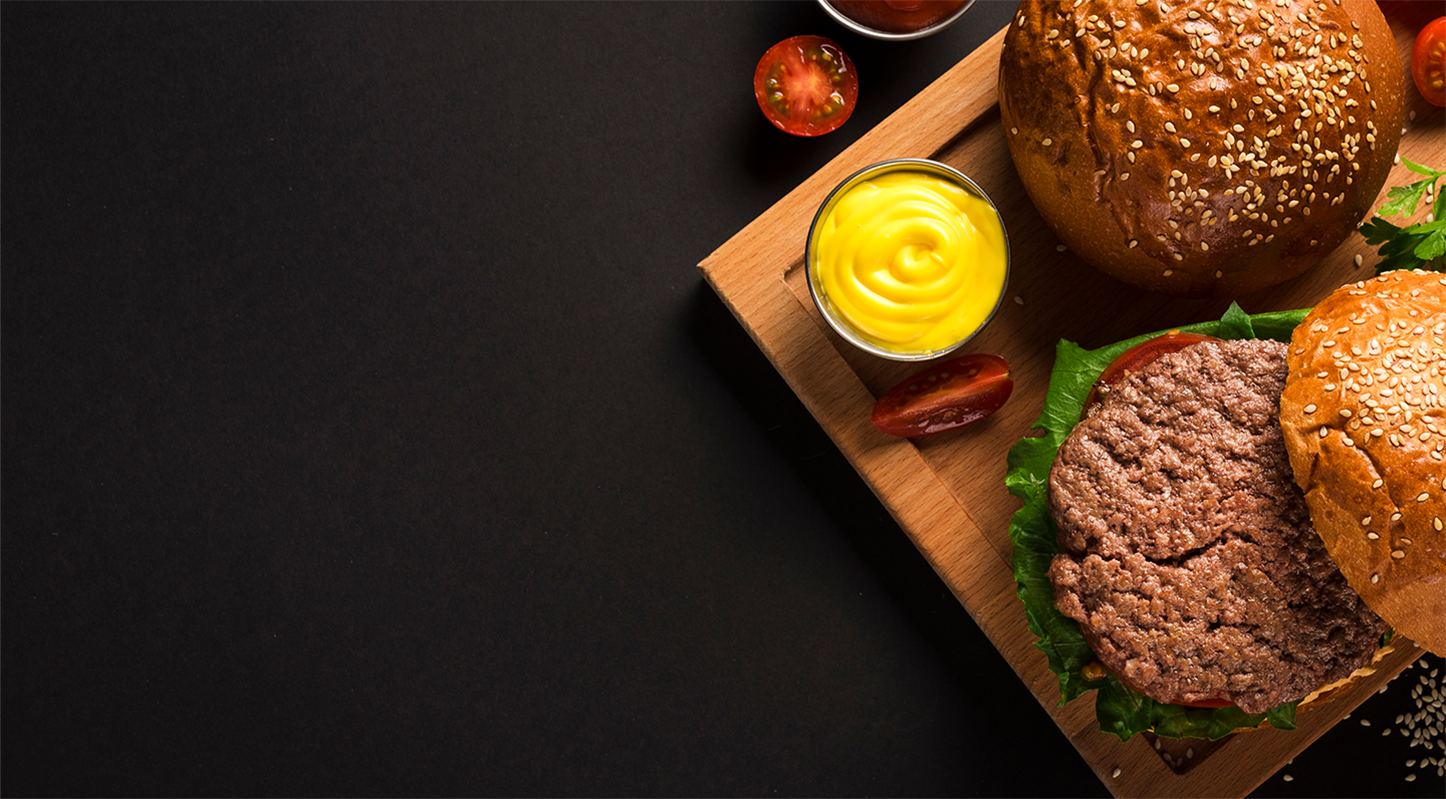
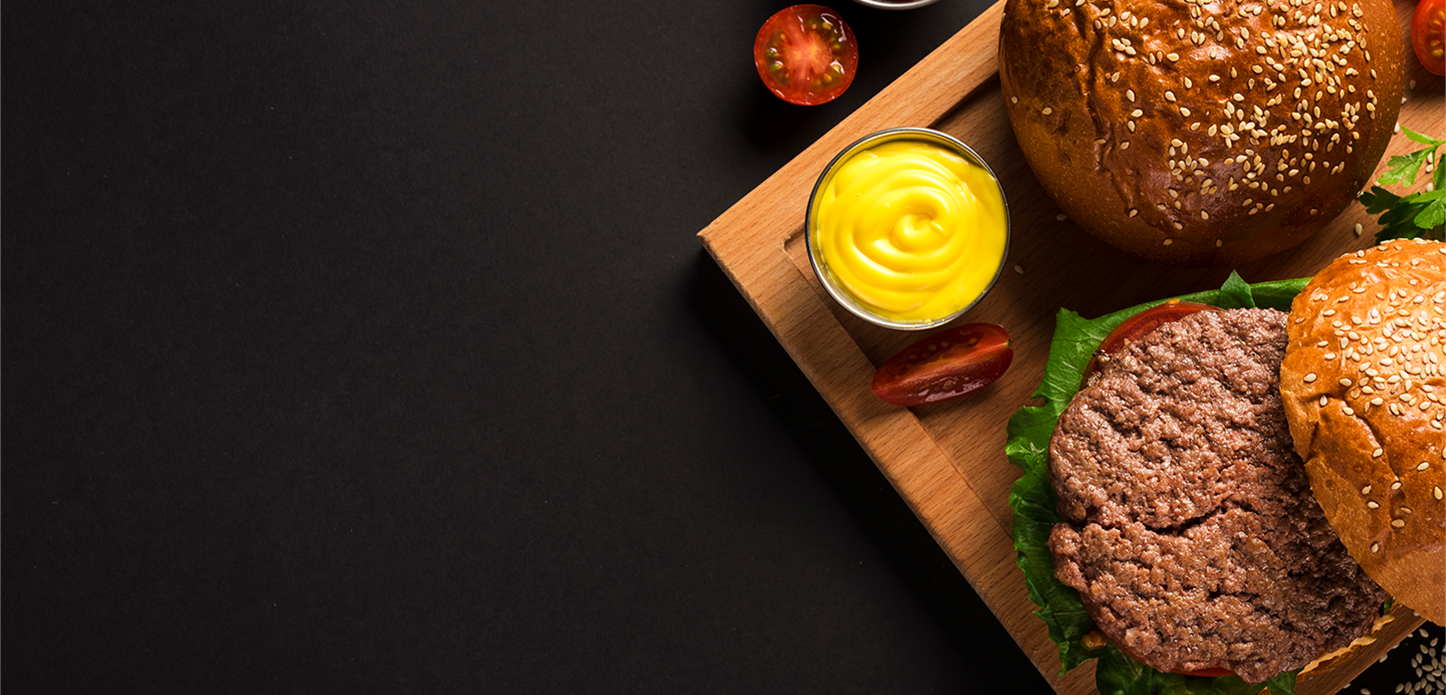
first commit

Changed region(s): [[0.4668, 0.0, 1.0, 1.0]]

diff --git a/project web/barger/css/index.css b/project web/barger/css/index.css
@@ -1,7 +1,7 @@
 *{ margin: 0;padding: 0;box-sizing: border-box; }
  /* navbar css */
 .navbar{ background-color: #f6eedf00; width: 100%;display: flex;background-image: linear-gradient(0deg, rgba(0,0,0,0) 0%, rgba(0,0,0,0.9999999999999999) 85%, rgba(0,0,0,0.9999999999999999) 100%); position: relative;z-index: 4;overflow: initial;}
-.bg-img{ position: absolute;left: 0;top: 0;   z-index: -2;width: 100%; object-fit: cover;}
+.bg-img{ position: absolute;left: 0;top: 0;   z-index: -2;width: 100%; object-fit: cover;height: 1000px;}
 .nav-img{ margin-left: 7%; padding: 10px;padding-top: 40px;}
 .li-optin { font-size: 30px;line-height: 97px;color: #ffffff;font-weight: 400;font-family: "Archivo";list-style-type: none;}
 .nav-text{ display: flex;margin-left: 25%;justify-content: center;align-items: center;gap: 30px; }
@@ -14,3 +14,82 @@
 
 /* order button */
 .order-btn{ border-radius: 32px;background-color: #f64b3c;padding: 10px 20px 10px 20px; font-size: 20px;color: #ffffff;font-weight: 700;font-family: "Archivo";text-align: center;font-family: "Nunito";margin-top: 5%;}
+
+
+.chef{ font-size: 64px;color: #f64b3c;font-weight: 700;font-family: "Archivo";text-align: center; }
+.oner-s{ display: flex;gap: 30px;margin: auto;margin-top: 5%;flex-wrap: wrap;width: 100%;position: relative;}
+.contener{ width: 100%;background-color: #f6eedf;margin-top: 5%;display: grid;justify-content: center;align-items: center;text-align: center;height: auto;padding-top: 20px;padding-bottom: 10%; }
+.lorem{ font-size: 25px;color: #f64b3c;font-weight: 400;font-family: "Montserrat";text-align: center;width: 60%;margin: auto;padding-top: 30px;}
+.intro-img{ width: 200px; }
+.oner-position{ text-transform: uppercase;color: #f64b3c;font-weight: 700;font-family: "Archivo";text-align: center;padding-top: 4%; }
+.oner-name{ font-size: 25px;color: #f64b3c;font-weight: 600;font-family: "Nunito";text-align: center;padding-top: 4%; }
+.oner-ditels{ width: 300px; margin: auto;z-index: 3;}
+.bg-img-oner{ position: absolute;left: 0;top: -75%;   z-index: 1;width: 100%; object-fit: cover; }
+
+
+
+
+
+.best-s{ width: 100%;background-color: #f64b3c;height: auto;display: flex;flex-wrap: wrap;  justify-content: center;align-items: center;margin: auto;padding:10% 10%; }
+.img-best{ width: 400px;margin: auto; }
+.best-text{ font-size: 75px; color: #ffffff; font-weight: 700; }
+.best-ditels{ font-size: 30px;color: #ffffff;font-weight: 400; }
+.best-div{ width: 500px;margin: auto; }
+.best-btn{ border-radius: 32px;background-color: #ffffff;padding: 10px 20px 10px 20px; font-size: 20px;color: #f64b3c;font-weight: 700;font-family: "Archivo";text-align: center;font-family: "Nunito";margin-top: 5%; border: none;}
+
+
+
+
+
+.big-s{ width: 100%;height: auto;display: flex;flex-wrap: wrap; background-color: #bbb7ad; justify-content: center;align-items: center;margin: auto;padding:10% 10%; position: relative;background: url(../img/2\ bg\ img.png);object-fit: contain;background-repeat: no-repeat;}
+.img-big{ width: 400px;margin: auto;padding-top: 20px; }
+.big-text{ font-size: 75px; color: #f64b3c; font-weight: 700; }
+.big-ditels{ font-size: 30px;color: #f64b3c;font-weight: 400; }
+.big-div{ width: 500px;margin: auto; }
+.big-btn{ border-radius: 32px;background-color: #f64b3c;padding: 10px 20px 10px 20px; font-size: 20px;color: #ffffff;font-weight: 700;font-family: "Archivo";text-align: center;font-family: "Nunito";margin-top: 5%; border: none;padding-top: 10px;}
+.big-bgimg{position: absolute; z-index: 1;width: 80%; }
+
+
+
+
+.Statistics-s{ background-color: #f64b3c;width: 100%;height: auto; padding-top: 5%;}
+.Statistics{ font-size: 64px;color: #ffffff;font-weight: 700;font-family: "Archivo";text-align: center;padding-top: 30px; }
+.Statistics-lorem{ font-size: 25px;color: #ffffff;font-weight: 400;font-family: "Montserrat";text-align: center;width: 60%;margin: auto;padding-top: 20px;}
+.cr-d{ width: 400px; height: 400px; border: 4px solid #ffffff;border-radius: 50%; margin: auto;text-align: center;padding-top: 100px;}
+.cr{ display: flex;flex-wrap: wrap;margin: auto;gap: 20PX;padding-top: 20px; padding-bottom: 5%; }
+.cr-count{ font-size: 102px;color: #ffffff;font-weight: 700; }
+.cr-text{ font-size: 33px;text-transform: uppercase;color: #ffffff;font-weight: 700; }
+
+.packeg{ width: 300px;background-color: #f6eedf;text-align: center;padding: 10px;margin: auto;margin-top: 60px;border-radius: 10px; }
+.packeg-titel{ font-size: 33px; text-transform: uppercase; color: #f64b3c; font-weight: 700; padding-bottom: 20px;}
+.packeg-p{ font-size: 33px;color: #f64b3c;font-weight: 700;padding-top: 20px; }
+.packeg-l{ font-size: 10px;color: #f64b3c;font-weight: 400;text-align: center;padding-top: 20px; }
+.packeg-s{ display: flex;margin: auto;justify-content: center;flex-wrap: wrap;gap: 20px; }
+.popular{ background: url(../img/2\ bg\ img.png);object-fit: cover;background-repeat: no-repeat; padding-bottom: 10%;background-size: contain;}
+.barry{ width: 100%;  display: grid;justify-content: center;align-items: center; background: url(../img/Image.png);background-repeat: no-repeat; padding-bottom: 10%;background-size: 100%;background-size: cover;}
+
+.barry-text{ font-size: 36px;color: #ffffff;font-weight: 400;font-family: "Archivo";text-align: center;padding: 10%; }
+.barry-titel{ font-size: 50px;color: #ffffff;font-weight: 700;font-family: "Calistoga";text-align: center;padding-top: 10px; }
+.barry-div{ width: 70%;margin: auto; }
+
+
+.miss{ width: 100%;background: url(../img/2\ bg\ img.png); object-fit: cover;background-repeat: no-repeat;background-size: 100%;padding-top: 20%;padding-bottom: 20%; }
+.miss-title{ font-size: 75px;color: #f64b3c;font-weight: 700;font-family: "Archivo";text-align: center; }
+.miss-text{ font-size: 30px;
+    color: #f64b3c;
+    font-weight: 400;
+    font-family: "Nunito";
+  
+    text-align: center; 
+}
+.miss-a{ width: 50%;margin: auto; }    
+.miss-btn{ border-radius: 0px 20px 20px 0px;background-color: #f64b3c;margin: auto; padding: 10px 20px 10px 20px; font-size: 20px;color: #ffffff;font-weight: 700;font-family: "Archivo";text-align: center;font-family: "Nunito";margin-top: 5%;margin-left: -9%; border: none;padding-top: 10px; }
+.miss-su{ margin: auto;text-align: center; }
+.miss-su>input{ width: 30%;height: 39px;border: none;background-color: #f6eedf;border-radius: 40px; }
+
+.foot-text{ width: 400px; margin-top: 10%;margin-bottom: 10%;margin-left: 10%;}
+.foot-ti{ font-size: 31px;color: #ffffff;font-weight: 700;padding-bottom: 30px; }
+.foot-di{ padding-bottom: 20px; }
+.footer{ background-color: #222222;color: #ffffff;display: flex;justify-content: space-evenly;align-items: center;flex-wrap: wrap;margin: auto;}
+.about{ width: 200px;margin: auto;padding-top: 20px; }
+li{ list-style-type: none;padding-top: 10px; }

diff --git a/project web/barger/html/index.html b/project web/barger/html/index.html
@@ -59,8 +59,185 @@
 </div>
 </section>
 
+<!-- our chef -->
+<section>
+
+
+    
+    <div class="contener">
+        <p class="chef">Our Chef</p>
+        <p class="lorem">Lorem ipsum dolor sit amet consectetur adipisicing elit. Animi provident quae, eos libero sunt perferendis qui exercitationem. Enim </p>
+        
+        <div class="oner-s">
+            
+            
+            
+            
+            <div class="oner-ditels">
+                <img src="../img/1 img.png" alt="" class="intro-img">
+                <p class="oner-name">AIDEN HUNTER</p>
+                <p class="oner-position">Founder</p>
+            </div>
+            <div class="oner-ditels">
+                <img src="../img/2 img.png" alt="" class="intro-img">
+                <p class="oner-name">AIDEN HUNTER</p>
+                <p class="oner-position">Founder</p>
+            </div>
+            <div class="oner-ditels">
+                <img src="../img/3 img.png" alt="" class="intro-img">
+                <p class="oner-name">AIDEN HUNTER</p>
+                <p class="oner-position">Founder</p>
+            </div>
+            <img src="../img/Design.png" alt="" class="bg-img-oner">
+
+    </div>
+</section>
+
+
+<section>
+    <div class="best-s">
+<img src="../img/burger img.png" alt="" class="img-best">
+<div class="best-div">
+    <h1 class="best-text">Best Burger</h1>
+    <p  class="best-ditels">Lorem ipsum dolor sit amet consectetur adipisicing elit. Esse illo et provident fugit doloremque vitae quo dolores a</p>
+    <button class="best-btn">ORDERD NOW</button>
+
+    </div>
+</section>
+
+
+<section>
+    <div class="big-s">
+        <!-- <img src="../img/2 bg img.png" alt="" class="big-bgimg"> -->
+        <div class="big-div">
+            <h1 class="big-text">Big Burger</h1>
+            <p  class="big-ditels">Lorem ipsum dolor sit amet consectetur adipisicing elit. Esse illo et provident fugit doloremque vitae quo dolores a</p>
+            <button class="big-btn">ORDERD NOW</button>
+            
+        </div>
+        <img src="../img/burger img.png" alt="" class="img-big">
+</section>
+
+
+
+<section>
+    <!-- Statistics section -->
+    <div class="Statistics-s">
+        <p class="Statistics">Statistics</p>
+        <p class="Statistics-lorem">Lorem ipsum dolor sit amet consectetur adipisicing elit. Animi provident quae, eos libero sunt perferendis qui exercitationem. </p>
+        <div class="cr">
+            <div class="cr-d">
+<h1 class="cr-count">7K</h1>
+<p class="cr-text">CUSTOMER</p>
+            </div>
+            <div class="cr-d">
+                <h1 class="cr-count">109</h1>
+                <p class="cr-text">OUTLETS</p>
+            </div>
+            <div class="cr-d">
+                <h1 class="cr-count">35</h1>
+<p class="cr-text">COUNTRY</p>
+            </div>
+        </div>
+    </div>
+</section>
+
+<section>
+    <div class="popular">
+<h1 class="chef">Popular Package</h1>
+
+<div class="packeg-s">
+    <div class="packeg">
+        <p class="packeg-titel">PACKAGE |</p>
+        <img src="../img/Icon.png" alt="">
+        <p class="packeg-p">$10.00</p>
+        <P class="packeg-l">Lorem, ipsum dolor sit amet consectetur adipisicing elit. Alias qui ipsum excepturi ex nihil</P>
+        <button class="big-btn">ORDER NOW</button>
+    </div>
+
+    <div class="packeg">
+        <p class="packeg-titel">PACKAGE |</p>
+        <img src="../img/Icon.png" alt="">
+        <p class="packeg-p">$10.00</p>
+        <P class="packeg-l">Lorem, ipsum dolor sit amet consectetur adipisicing elit. Alias qui ipsum excepturi ex nihil</P>
+        <button class="big-btn">ORDER NOW</button>
+    </div>
+
+
+    <div class="packeg">
+        <p class="packeg-titel">PACKAGE |</p>
+        <img src="../img/Icon.png" alt="">
+        <p class="packeg-p">$10.00</p>
+        <P class="packeg-l">Lorem, ipsum dolor sit amet consectetur adipisicing elit. Alias qui ipsum excepturi ex nihil</P>
+        <button class="big-btn">ORDER NOW</button>
+    </div>
+</div>
+    </div>
+</section>
+
+
+
+<section>
+    <div class="barry">
+        <div class="barry-div">
+<p class="barry-text">Lorem ipsum dolor sit, amet consectetur adipisicing elit. Aspernatur velit, nihil obcaecati corrupti illo provident officiis necessitatibus veritatis earum temporibus id! Voluptate dicta, eum exercitationem sed sapiente ullam quibusdam magnam.</p>
+<h1 class="barry-titel">Barry Henderson</h1>
+    </div>
+</div>
+</section>
+
+
+
+<section>
+    <div class="miss">
+<div class="miss-a">
+        <h1 class="miss-title">Don’t miss Our Update</h1>
+
+        <p class="miss-text">Lorem ipsum dolor sit amet, consectetur adipiscing elit. Vivamus lacinia odio vitae vestibulum vestibulum. </p>
+    </div>
+    <div class="miss-su">
+        <input type="text">
+        <button class="miss-btn">SUBSCRIBE</button>
+    </div>
+</div>
+</section>
+
 </main>
+ <!-- footer  -->
+<footer>
+    <div class="footer">
+        <div class="foot-text">
+<p class="foot-ti">Titel Here</p>
+<p class="foot-di">Lorem, ipsum dolor sit amet consectetur adipisicing elit. Quis, nisi voluptatibus repellendus vero exercitationem officiis enim accusantium reiciendis ullam veritatis? Dicta quo necessitatibus error porro</p>
+<img src="../img/icon-w.png" alt="">
+        </div>
 
+        <div class="about">
+<p class="foot-ti">About</p>
+<li>History</li>
+<li>Our Team</li>
+<li>Brand Gulidlines </li>
+<li>Term & Condition</li>
+<li>Privacy Policy</li>
+        </div>
+        <div class="about">
+        <p class="foot-ti">Services</p>
+        <li>How to Order</li>
+        <li>Our Product</li>
+        <li>Order Status</li>
+        <li>Promo</li>
+        <li>Payment Method</li>
+    </div>
+    <div class="about">
+        <p class="foot-ti">Other</p>
+       <li>Contact Us</li>
+       <li> Help</li>
+       <li>Privacy</li>
+    </div>
 
+       
+       
+    </div>
+</footer>
 </body>
 </html>

diff --git a/project web/barger/css/midiya.css b/project web/barger/css/midiya.css
@@ -1,4 +1,3 @@
-
 /* screen width 1213 to 947 */
 
 @media screen and (max-width: 1213px) {
@@ -6,15 +5,19 @@
     .cashback{font-size: 40px}
     .cashback-div{width: 500px;}
     .content-text{font-size: 29px;}
+    .bg-img{height: 200%;}
   }
 
-/* screen width  946 to 817*/
+/* screen width  947 to 817*/
 
-  @media screen and (max-width: 946px) {
+  @media screen and (max-width: 958px) {
     .li-optin {font-size: 15px;}
     .cashback{font-size: 30px;}
     .cashback-div{width: 400px;}
     .content-text{ font-size: 25px;}
+    .bg-img{height: 200%;}
+    .bg-img-oner{ top: 20px; }
+    
   }
 
 /* screen width    816 to 693 */
@@ -25,7 +28,9 @@
     .cashback{font-size: 30px;}
     .cashback-div{width: 400px;}
     .content-text{font-size: 25px;}
-    .bg-img{height: 100%;}
+    .bg-img{height: 200%;}
+    .bg-img-oner{ top: 20px; }
+
   }
 
 /* screen width 694 to 414 */
@@ -37,9 +42,23 @@
     .cashback-div{width: 400px;}
     .content-text{font-size: 25px;}
     .cashback-div{margin: auto;margin-top: 20%;text-align: center;}
-    .bg-img{height: 100%;}
+    .bg-img{height: 200%;}
+   
   }
 
+/* screen width    646 to 416 */
+
+  @media screen and (max-width: 646px) {
+    .li-optin {display: none;}
+    .bar-img{display: block !important;}
+    .cashback{font-size: 30px;}
+    .cashback-div{width: 400px;}
+    .content-text{font-size: 25px;}
+    .cashback-div{margin: auto;margin-top: 20%;text-align: center;}
+    .bg-img{height: 200%;}
+    .bg-img-oner{ display: none; }
+   
+  }
 /* screen width    415 to 0 */
 
   @media screen and (max-width: 415px) {
@@ -49,5 +68,7 @@
     .cashback-div{width: 200px;}
     .content-text{font-size: 25px;}
     .cashback-div{margin: auto;margin-top: 20%;text-align: center;}
-    .bg-img{height: 100%;}
+    .bg-img{height: 200%;}
+    .lorem{ width: 60%; }
+     .bg-img-oner{ display: none; }
   }
